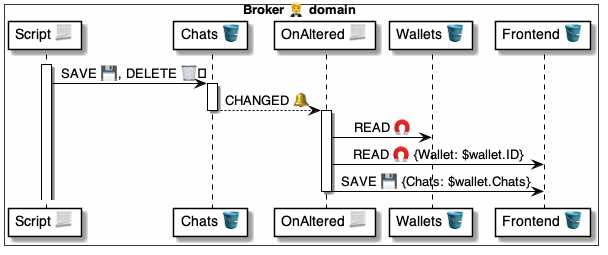
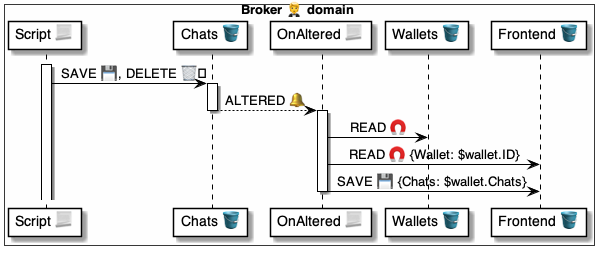
.

diff --git a/4 ⚙ Solution/20 🧑🦰 UI/Brokers 🤵/🤵🪣 Broker tables/Chats 💬 table/🪣🔔 OnChatAltered/🤵 OnChatAltered 📃 handler.md b/4 ⚙ Solution/20 🧑🦰 UI/Brokers 🤵/🤵🪣 Broker tables/Chats 💬 table/🪣🔔 OnChatAltered/🤵 OnChatAltered 📃 handler.md
@@ -21,7 +21,6 @@
 ```yaml
 - RUN|OnChatAltered:
     Item: 
-        ID: <chat-uuid>
         Wallet: <wallet-id>
 ```
 
@@ -32,8 +31,8 @@
 
 # Assert the inputs
 - ASSERT|$Item:
-    AllOf: ID, Wallet
-    UUIDs: ID, Wallet
+    AllOf: Wallet
+    UUIDs: Wallet
 
 # Get the Wallet 🧑🦰
 - READ >> $wallet:
@@ -49,18 +48,19 @@
     BigIcon: Host.BigIcon
 
 # Get the Wallet's Frontend
-- GET >> $frontend:
+- READ >> $frontend:
     Set: Broker.Frontend
     Key: $wallet.ID
     Default: 
+        PublicKey: $wallet.PublicKey
 
 # Replace only the Frontend Chats.
-- SET|$frontend:
+- SAVE|$frontend:
     Chats: $chats
 ```
 
 |Uses||
 |-|-
-| [Commands ⌘](<../../../../../35 💬 Chats/Scripts 📃/Command ⌘.md>) | [`ASSERT`](<../../../../../37 Scripts 📃/📃 Commands ⌘/⌘ for holders 🧠/ASSERT 🚦/🚦 ASSERT ⌘ cmd.md>) [`READ`](<../../../../../37 Scripts 📃/📃 Commands ⌘/⌘ for datasets 🪣/READ 🧲/🧲 READ ⌘ cmd.md>) [`SEND`](<../../../../../37 Scripts 📃/📃 Commands ⌘/⌘ for messages 📨/SEND 📬/📬 SEND ⌘ cmd.md>)
+| [Commands ⌘](<../../../../../35 💬 Chats/Scripts 📃/Command ⌘.md>) | [`ASSERT`](<../../../../../37 Scripts 📃/📃 Commands ⌘/⌘ for holders 🧠/ASSERT 🚦/🚦 ASSERT ⌘ cmd.md>) [`PUT`](<../../../../../37 Scripts 📃/📃 Commands ⌘/⌘ for holders 🧠/PUT ⬇/⬇ PUT ⌘ cmd.md>) [`READ`](<../../../../../37 Scripts 📃/📃 Commands ⌘/⌘ for datasets 🪣/READ 🧲/🧲 READ ⌘ cmd.md>) [`SAVE`](<../../../../../37 Scripts 📃/📃 Commands ⌘/⌘ for datasets 🪣/SAVE 💾/💾 SAVE ⌘ cmd.md>)
 | [Datasets 🪣](<../../../../../30 🧩 Data/Datasets 🪣/🪣 Dataset.md>) | [`Chats`](<../🪣 Chats/🤵 Broker.Chats 🪣 table.md>) [`Frontend`](<../../Frontend 📱 table/🤵 Broker.Frontend 🪣 table.md>) [`Wallets`](<../../Wallets 🧑🦰 table/🤵 Broker.Wallets 🪣 table.md>) 
 |

diff --git a/4 ⚙ Solution/20 🧑🦰 UI/Brokers 🤵/🤵🅰 Broker methods/Wallets 🧑🦰 Frontend 🧑🦰🚀🤵/🤵 Frontend 📃 handler.md b/4 ⚙ Solution/20 🧑🦰 UI/Brokers 🤵/🤵🅰 Broker methods/Wallets 🧑🦰 Frontend 🧑🦰🚀🤵/🤵 Frontend 📃 handler.md
@@ -1,7 +1,7 @@
-# 🤵📃 Chats 🚀 Broker
+# 🤵📃 Frontend 🚀 Broker
 
-> [Script 📃](<🤵 Frontend 🚀 request.md>)
-
+> Purpose
+* [Script 📃](<../../../../35 💬 Chats/Scripts 📃/Script 📃.md>) that implements the [`Frontend@Broker` 🅰 method](<🤵 Frontend 🚀 request.md>).
 
 <br/>
 
@@ -12,28 +12,20 @@
 ## Script
 
 ```yaml
-📃 Chats@Broker:
+📃 Frontend@Broker:
 
-# Get the wallet item
-- READ >> $wallet:
-    Set: Broker.Wallets
+# Get the frontend item
+- READ >> $frontend:
+    Set: Broker.Frontend
     Key: $.Msg.From
 
 # Verify the signature
 - VERIFY|$.Msg:
-    Key: $wallet.PublicKey
+    Key: $frontend.PublicKey
 
-# Prepare the response
-- PUT|$wallet.Chats >> $chats
-    Chat: Chat
-    Host: Host
-    Host$: Host$
-    SmallIcon: Host.SmallIcon
-    BigIcon: Host.BigIcon
-
-# Respond
-- RETURN:
-    Chats: $chats
+# Return the frontend data
+- RETURN|$frontend:
+    Chats, Binds, Tokens
 ```
 
 Uses||

diff --git a/4 ⚙ Solution/20 🧑🦰 UI/Brokers 🤵/🤵🪣 Broker tables/Binds 🔗 table/🪣 Binds/🤵 Broker.Binds 🪣 table.md b/4 ⚙ Solution/20 🧑🦰 UI/Brokers 🤵/🤵🪣 Broker tables/Binds 🔗 table/🪣 Binds/🤵 Broker.Binds 🪣 table.md
@@ -39,7 +39,7 @@ Handlers:
 
 | Handler | [Message 📨](<../../../../../30 🧩 Data/Messages 📨/📨 Message/📨 Message.md>) | Events
 |-|-|-
-| [`OnBindChanges` 📃](<../🪣🔔 OnBindAltered/🤵 OnBindChanges 📃 handler.md>) | [`Update@Notifier` 🅰](<../../../../Notifiers 📣/📣🅰 Notifier methods/Wallets 🧑🦰 Updated 🤵🐌📣/📣 Updated 🐌 msg.md>) | `ALTERED`
+| [`OnBindChanges` 📃](<../🪣🔔 OnBindAltered/🤵 OnBindAltered 📃 handler.md>) | [`Update@Notifier` 🅰](<../../../../Notifiers 📣/📣🅰 Notifier methods/Wallets 🧑🦰 Updated 🤵🐌📣/📣 Updated 🐌 msg.md>) | `ALTERED`
 
 
 ## Example

diff --git a/4 ⚙ Solution/20 🧑🦰 UI/Brokers 🤵/🤵🪣 Broker tables/Binds 🔗 table/🪣🔔 OnBindAltered/🤵 OnBindAltered 📃 handler.md b/4 ⚙ Solution/20 🧑🦰 UI/Brokers 🤵/🤵🪣 Broker tables/Binds 🔗 table/🪣🔔 OnBindAltered/🤵 OnBindAltered 📃 handler.md
@@ -13,7 +13,7 @@
 
 ## Diagram
 
-![alt text](<🤵 OnBindChanges ⚙ uml.png>)
+![alt text](<🤵 OnBindAltered ⚙ uml.png>)
 
 ## How to call
 
